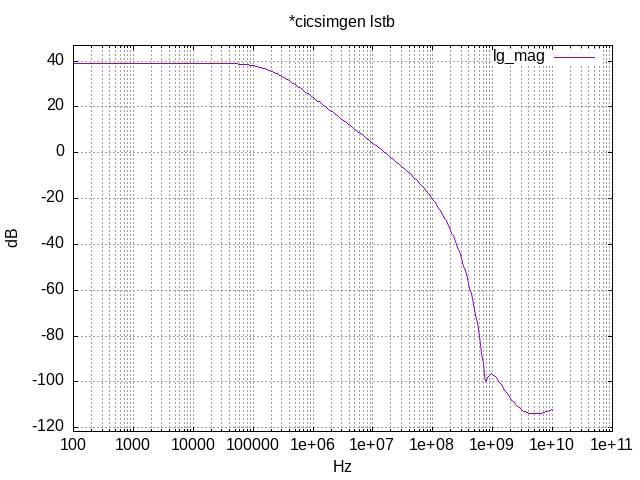
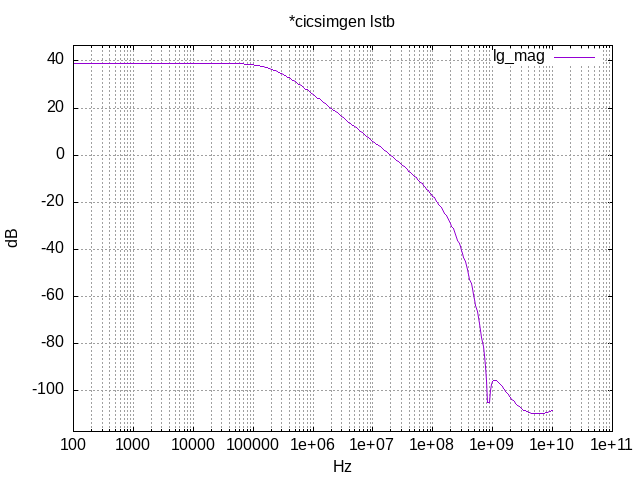
updated the Readme

diff --git a/README.md b/README.md
@@ -39,20 +39,21 @@ Group2
 |**Name**|**Parameter**|**Description**| |**Min**|**Typ**|**Max**| Unit|
 |:---|:---|:---|---:|:---:|:---:|:---:| ---:|
 |**Referance Voltage**|**vref27** || **Spec**  | **0.90000** | **1.20000** | **1.50000** | **V** |
-| | | | [Sch_typ](results/tran_Sch_typical.html) | | 1.20066 |  | |
-| | | | [Sch_etc](results/tran_Sch_etc.html) | 1.19779 | 1.20082 | 1.20342 | |
-| | | | [Sch_3std](results/tran_Sch_mc.html) | 1.07695 | 1.20448 | 1.33201 | |
-| **Temperature current** | **i_temp27** || **Spec** | **3.00000** | **4.00000** | **5.00000** | **uA** |
-| | | | [Sch_typ](results/tran_Sch_typical.html) | | 3.98492 |  | |
-| | | | [Sch_etc](results/tran_Sch_etc.html) | 3.42394 | 3.97680 | 4.64859 | |
-| | | | [Sch_3std](results/tran_Sch_mc.html) | 3.07677 | 4.00629 | 4.93581 | |
+| | | |<a href='results/tran_Sch_typical.html'>Sch_typ</a>| | 1.20066 |  | |
+| | | |<a href='results/tran_Sch_etc.html'>Sch_etc</a>|1.19779 | 1.20082 | 1.20342 | |
+| | | |<a href='results/tran_Sch_mc.html'>Sch_3std</a>|1.07695 | 1.20448 | 1.33201 | |
+|**Temperature current**|**i\_temp27** || **Spec**  | **3.00000** | **4.00000** | **5.00000** | **uA** |
+| | | |<a href='results/tran_Sch_typical.html'>Sch_typ</a>| | 3.98492 |  | |
+| | | |<a href='results/tran_Sch_etc.html'>Sch_etc</a>|3.42394 | 3.97680 | 4.64859 | |
+| | | |<a href='results/tran_Sch_mc.html'>Sch_3std</a>|3.07677 | 4.00629 | 4.93581 | |
 
 
 - Bellow are the plots and data of stability analysis  
 
-|      f3db |   gm_db |   lf_gain |   pm_deg |         ug |
-|-----------|---------|-----------|----------|------------|
-| 1.783e+05 | -13.882 |    39.138 |   66.437 | 1.5991e+07 |
+|       f3db |   gm_db |   lf_gain |   pm_deg |         ug |
+|------------|---------|-----------|----------|------------|
+| 2.1902e+05 | -13.295 |    39.099 |    64.77 | 1.9513e+07 |
+
 
 - **LOOP GAIN**  
 ![Alt text](https://github.com/analogicus/jnw_gr02_sky130a/blob/main/sim/JNW_VIS_TI/lstb_schgtkttttvtnosweep_loop_gain.png?raw=true)  
